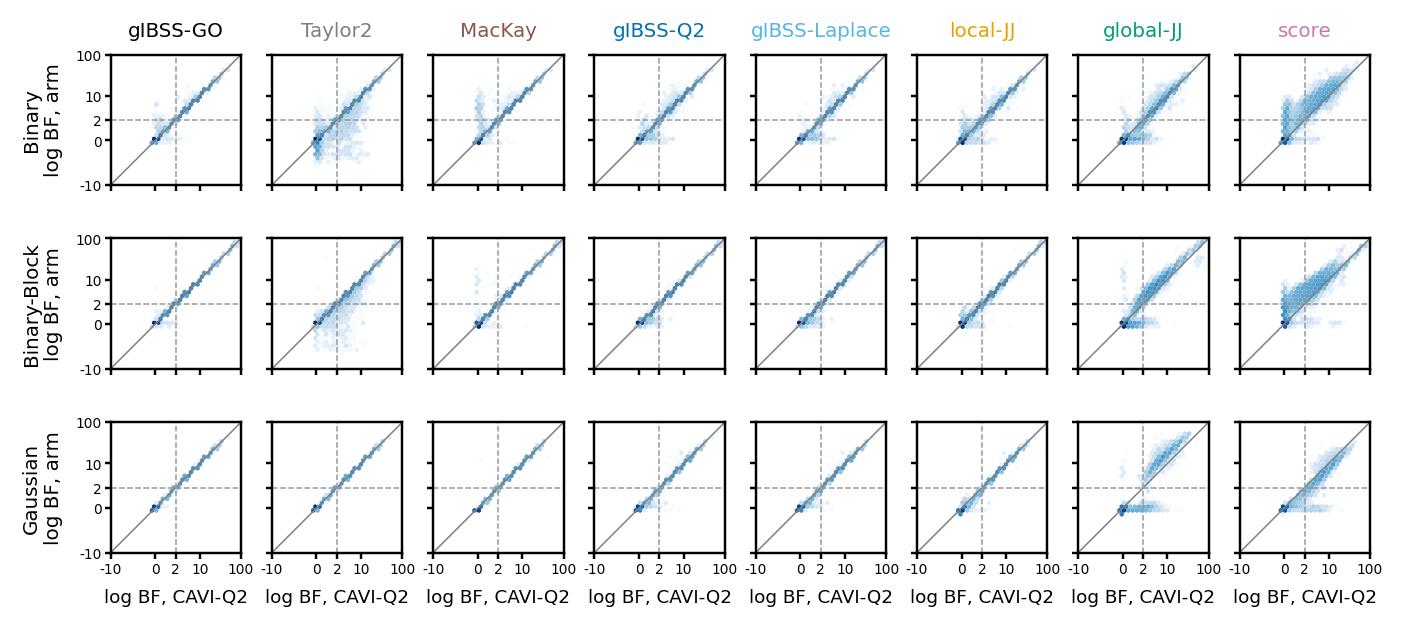
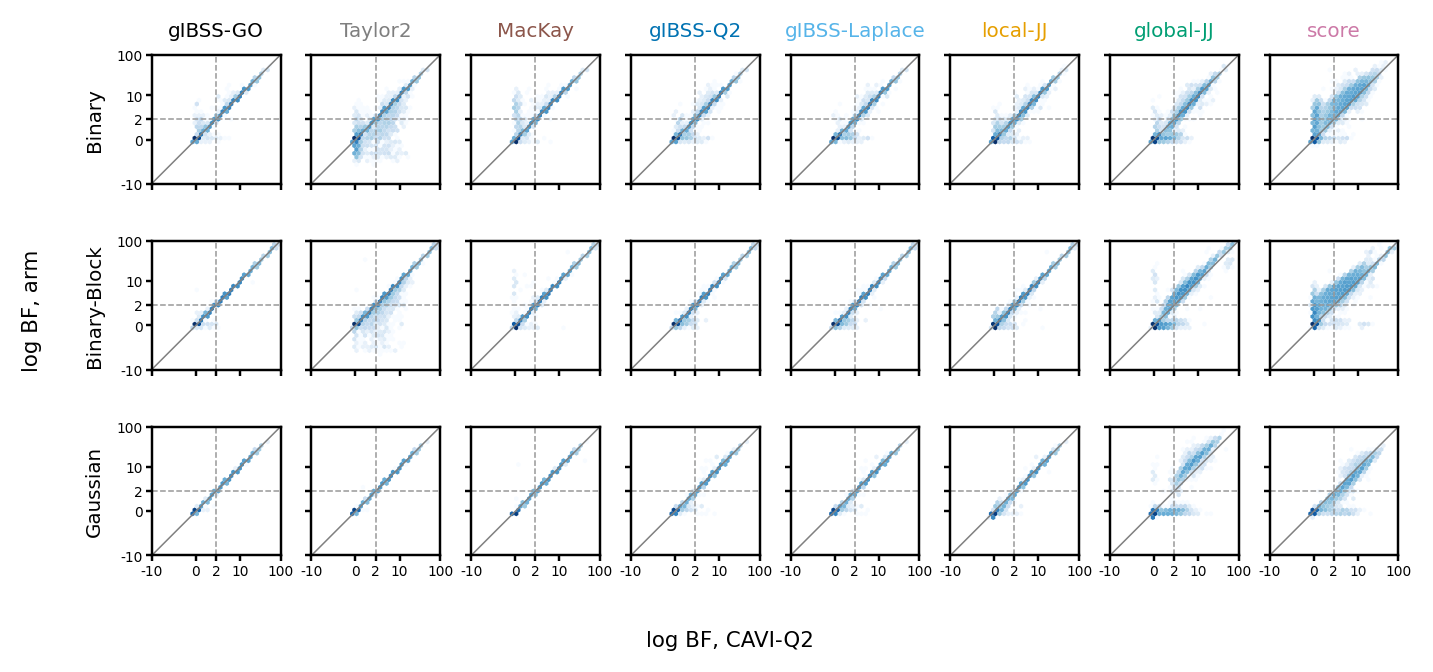
feat(twogroup): matched-component prior variance scatter in pip_agreement
Estimated prior variance of every matched pair's components, arm against CAVI-Q2, log scale
with the freeze floor (0.01) and cap (100) marked. The log BF and prior variance scatters share
one helper with figure-level axis labels.

Changed region(s): [[0.0, 0.3328, 0.9794, 0.9076], [0.0, 0.0303, 0.9794, 0.3025], [0.0612, 0.9379, 0.9794, 0.9682]]

diff --git a/twogroup_experiments/analysis/logistic_laplace_simulations/pip_agreement.py b/twogroup_experiments/analysis/logistic_laplace_simulations/pip_agreement.py
@@ -125,6 +125,8 @@ def compare(ref_se: list[dict], arm_se: list[dict]
                     "sd_ref": float(np.sqrt(var_a[i, j])), "sd_arm": float(np.sqrt(var_b[k, j])),
                     "declared_ref": dr, "declared_arm": da,
                     "lbf_ref": float(lbf_a[i]), "lbf_arm": float(lbf_b[k]),
+                    "pv_ref": float(ref_se[i]["prior_variance"]),
+                    "pv_arm": float(arm_se[k]["prior_variance"]),
                     "min_log_bf": float(min(lbf_a[i], lbf_b[k]))})
     fit = {"max_pip": float(dpip.max()), "argmax_pip": int(dpip.argmax()),
            "n_decl_ref": int((lbf_a >= R.MIN_LOG_BF).sum()),
@@ -505,43 +507,62 @@ def _slog(x):
     return np.sign(x) * np.log10(1.0 + np.abs(x))
 
 
-def lbf_scatter_figure(comp: pl.DataFrame, L: int = 5):
-    """Rows = experiments, columns = arms: component log BF of every matched pair, arm against
-    CAVI-Q2, hexbin with log counts on a sign-log scale (sign(x) log10(1 + |x|)); dashed lines
-    at the declaration bar R.MIN_LOG_BF. Every matched pair, declared or not, non-null cells."""
+def _pair_scatter(comp: pl.DataFrame, L: int, col: str, transform, lim: tuple[float, float],
+                  ticks: list[float], label: str, guides: list[float]):
+    """Rows = experiments, columns = arms: per matched pair, `{col}_arm` against `{col}_ref`
+    on the `transform`ed scale, hexbin with log counts; grey y = x, dashed lines at `guides`
+    (raw units). Every matched pair, declared or not, non-null cells."""
     import matplotlib.pyplot as plt
     from matplotlib.colors import LogNorm
     sub_l = comp.filter((pl.col("L") == L) & ~pl.col("null"))
-    lo, hi = _slog(-10.0), _slog(np.quantile(np.concatenate(
-        [sub_l["lbf_ref"].to_numpy(), sub_l["lbf_arm"].to_numpy()]), 0.999))
-    hi = max(hi, _slog(100.0))
-    ticks = [t for t in (-10, 0, 2, 10, 100, 1000) if _slog(t) <= hi]
+    lo, hi = lim
     fig, axes = plt.subplots(3, len(ARMS), figsize=(6.5, 3.1), sharex=True, sharey=True)
     for i, exp in enumerate(EXPS):
         for k, m in enumerate(ARMS):
             ax = axes[i, k]
             d = sub_l.filter((pl.col("exp") == exp) & (pl.col("method") == m))
-            ax.hexbin(_slog(d["lbf_ref"].to_numpy()), _slog(d["lbf_arm"].to_numpy()), gridsize=30,
-                      extent=(lo, hi, lo, hi), norm=LogNorm(vmin=1, vmax=1e4), cmap="Blues",
-                      mincnt=1, linewidths=0)
+            ax.hexbin(transform(d[f"{col}_ref"].to_numpy()), transform(d[f"{col}_arm"].to_numpy()),
+                      gridsize=30, extent=(lo, hi, lo, hi), norm=LogNorm(vmin=1, vmax=1e4),
+                      cmap="Blues", mincnt=1, linewidths=0)
             ax.plot([lo, hi], [lo, hi], color="0.5", lw=0.5)
-            bar = _slog(R.MIN_LOG_BF)
-            ax.axvline(bar, color="0.6", lw=0.5, ls="--")
-            ax.axhline(bar, color="0.6", lw=0.5, ls="--")
+            for g in guides:
+                ax.axvline(transform(g), color="0.6", lw=0.5, ls="--")
+                ax.axhline(transform(g), color="0.6", lw=0.5, ls="--")
             ax.set_xlim(lo, hi)
             ax.set_ylim(lo, hi)
             ax.set_aspect("equal")
-            ax.set_xticks([_slog(t) for t in ticks], [f"{t:g}" for t in ticks])
-            ax.set_yticks([_slog(t) for t in ticks], [f"{t:g}" for t in ticks])
+            ax.set_xticks([transform(t) for t in ticks], [f"{t:g}" for t in ticks])
+            ax.set_yticks([transform(t) for t in ticks], [f"{t:g}" for t in ticks])
             ax.tick_params(labelsize=4.5, length=2, pad=1)
             if i == 0:
                 ax.set_title(R.METHOD_LABEL[m], fontsize=6.5, color=R.METHOD_COLOR[m])
-            if i == 2:
-                ax.set_xlabel("log BF, CAVI-Q2", fontsize=6)
             if k == 0:
-                ax.set_ylabel(f"{DESIGN[exp]}\nlog BF, arm", fontsize=6.5)
-    fig.tight_layout(w_pad=0.2, h_pad=0.3)
+                ax.set_ylabel(DESIGN[exp], fontsize=6.5)
+    fig.tight_layout(rect=(0.025, 0.035, 1, 1), w_pad=0.2, h_pad=0.3)
+    fig.text(0.5, 0.008, f"{label}, CAVI-Q2", ha="center", fontsize=7)
+    fig.text(0.005, 0.5, f"{label}, arm", va="center", rotation="vertical", fontsize=7)
     return fig
+
+
+def lbf_scatter_figure(comp: pl.DataFrame, L: int = 5):
+    """Component log BF of every matched pair, arm against CAVI-Q2, on a sign-log scale
+    (sign(x) log10(1 + |x|)); dashed lines at the declaration bar R.MIN_LOG_BF."""
+    sub_l = comp.filter((pl.col("L") == L) & ~pl.col("null"))
+    top = np.quantile(np.concatenate([sub_l["lbf_ref"].to_numpy(), sub_l["lbf_arm"].to_numpy()]), 0.999)
+    hi = max(_slog(top), _slog(100.0))
+    ticks = [t for t in (-10, 0, 2, 10, 100, 1000) if _slog(t) <= hi]
+    return _pair_scatter(comp, L, "lbf", _slog, (_slog(-10.0), hi), ticks, "log BF", [R.MIN_LOG_BF])
+
+
+PV_FLOOR, PV_CAP = 0.01, 100.0   # freeze_prior_variance and max_prior_variance of every L=5 arm
+
+
+def pv_scatter_figure(comp: pl.DataFrame, L: int = 5):
+    """Estimated prior variance of every matched pair's component, arm against CAVI-Q2, log10
+    scale; dashed lines at the freeze floor (0.01) and the cap (100)."""
+    lo, hi = np.log10(PV_FLOOR) - 0.3, np.log10(PV_CAP) + 0.3
+    return _pair_scatter(comp, L, "pv", np.log10, (lo, hi), [0.01, 1, 100], "prior variance",
+                         [PV_FLOOR, PV_CAP])
 
 
 def _cs(alpha: np.ndarray, coverage: float = 0.95) -> np.ndarray:
